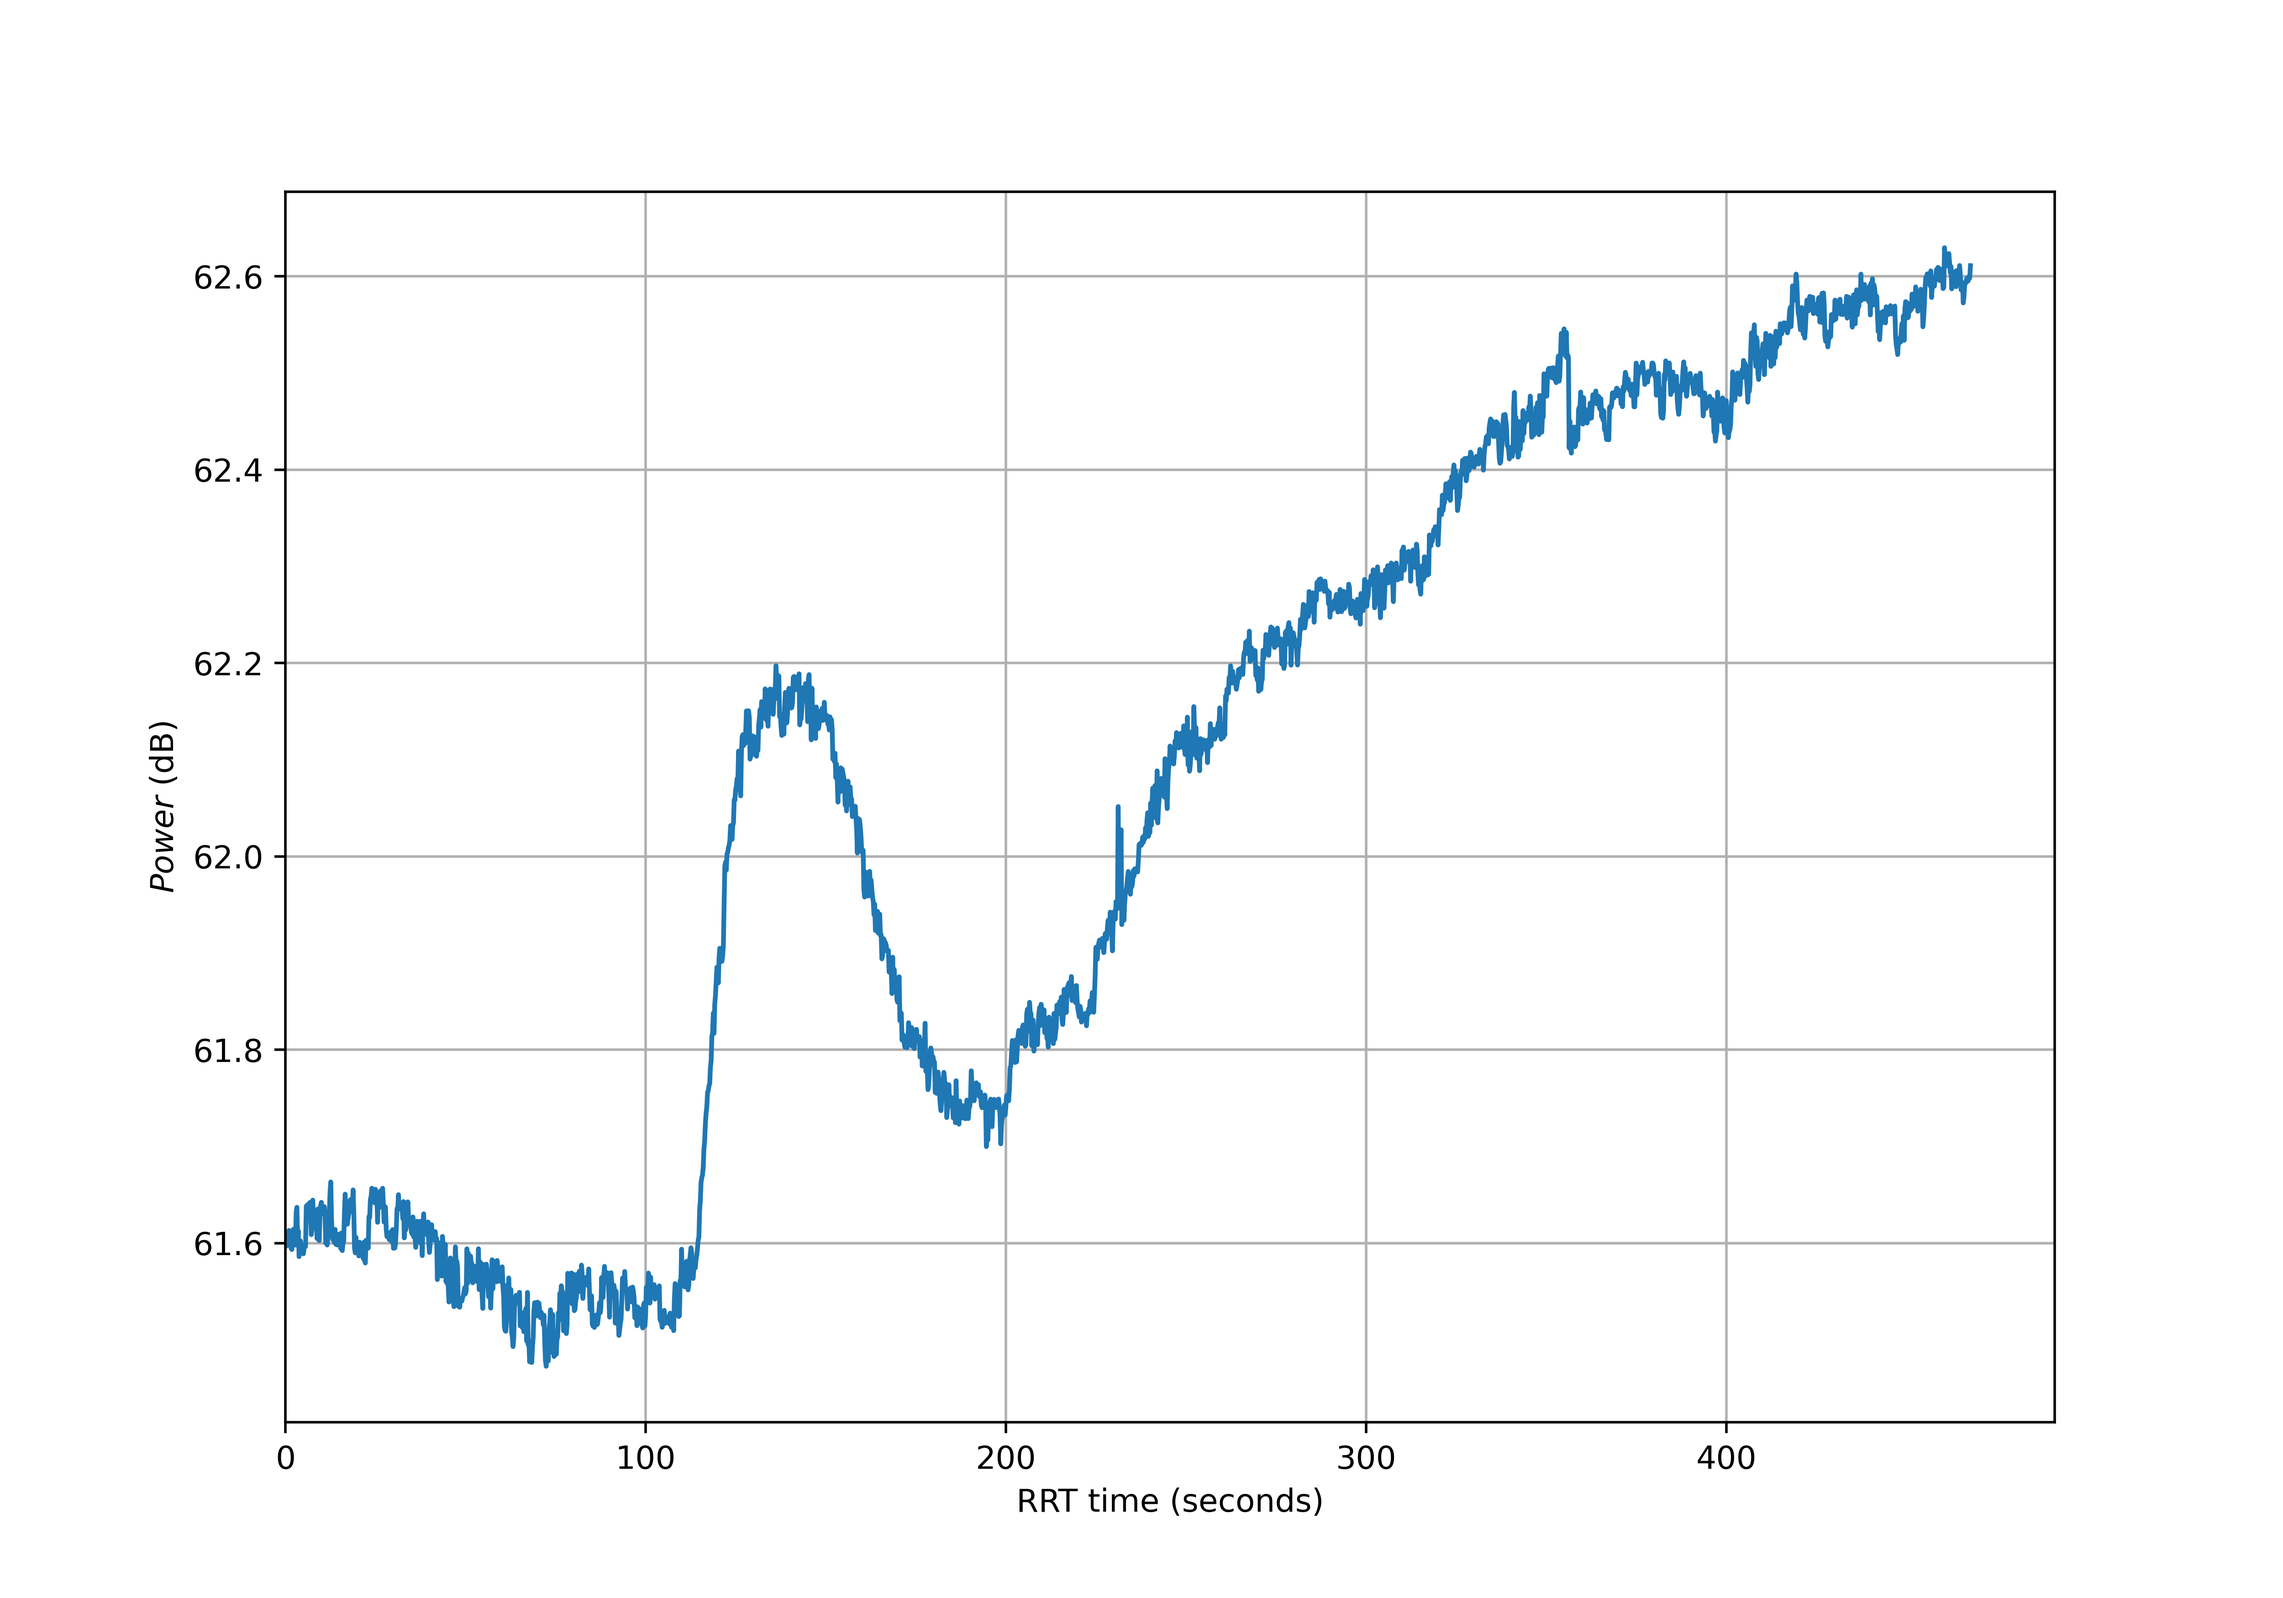
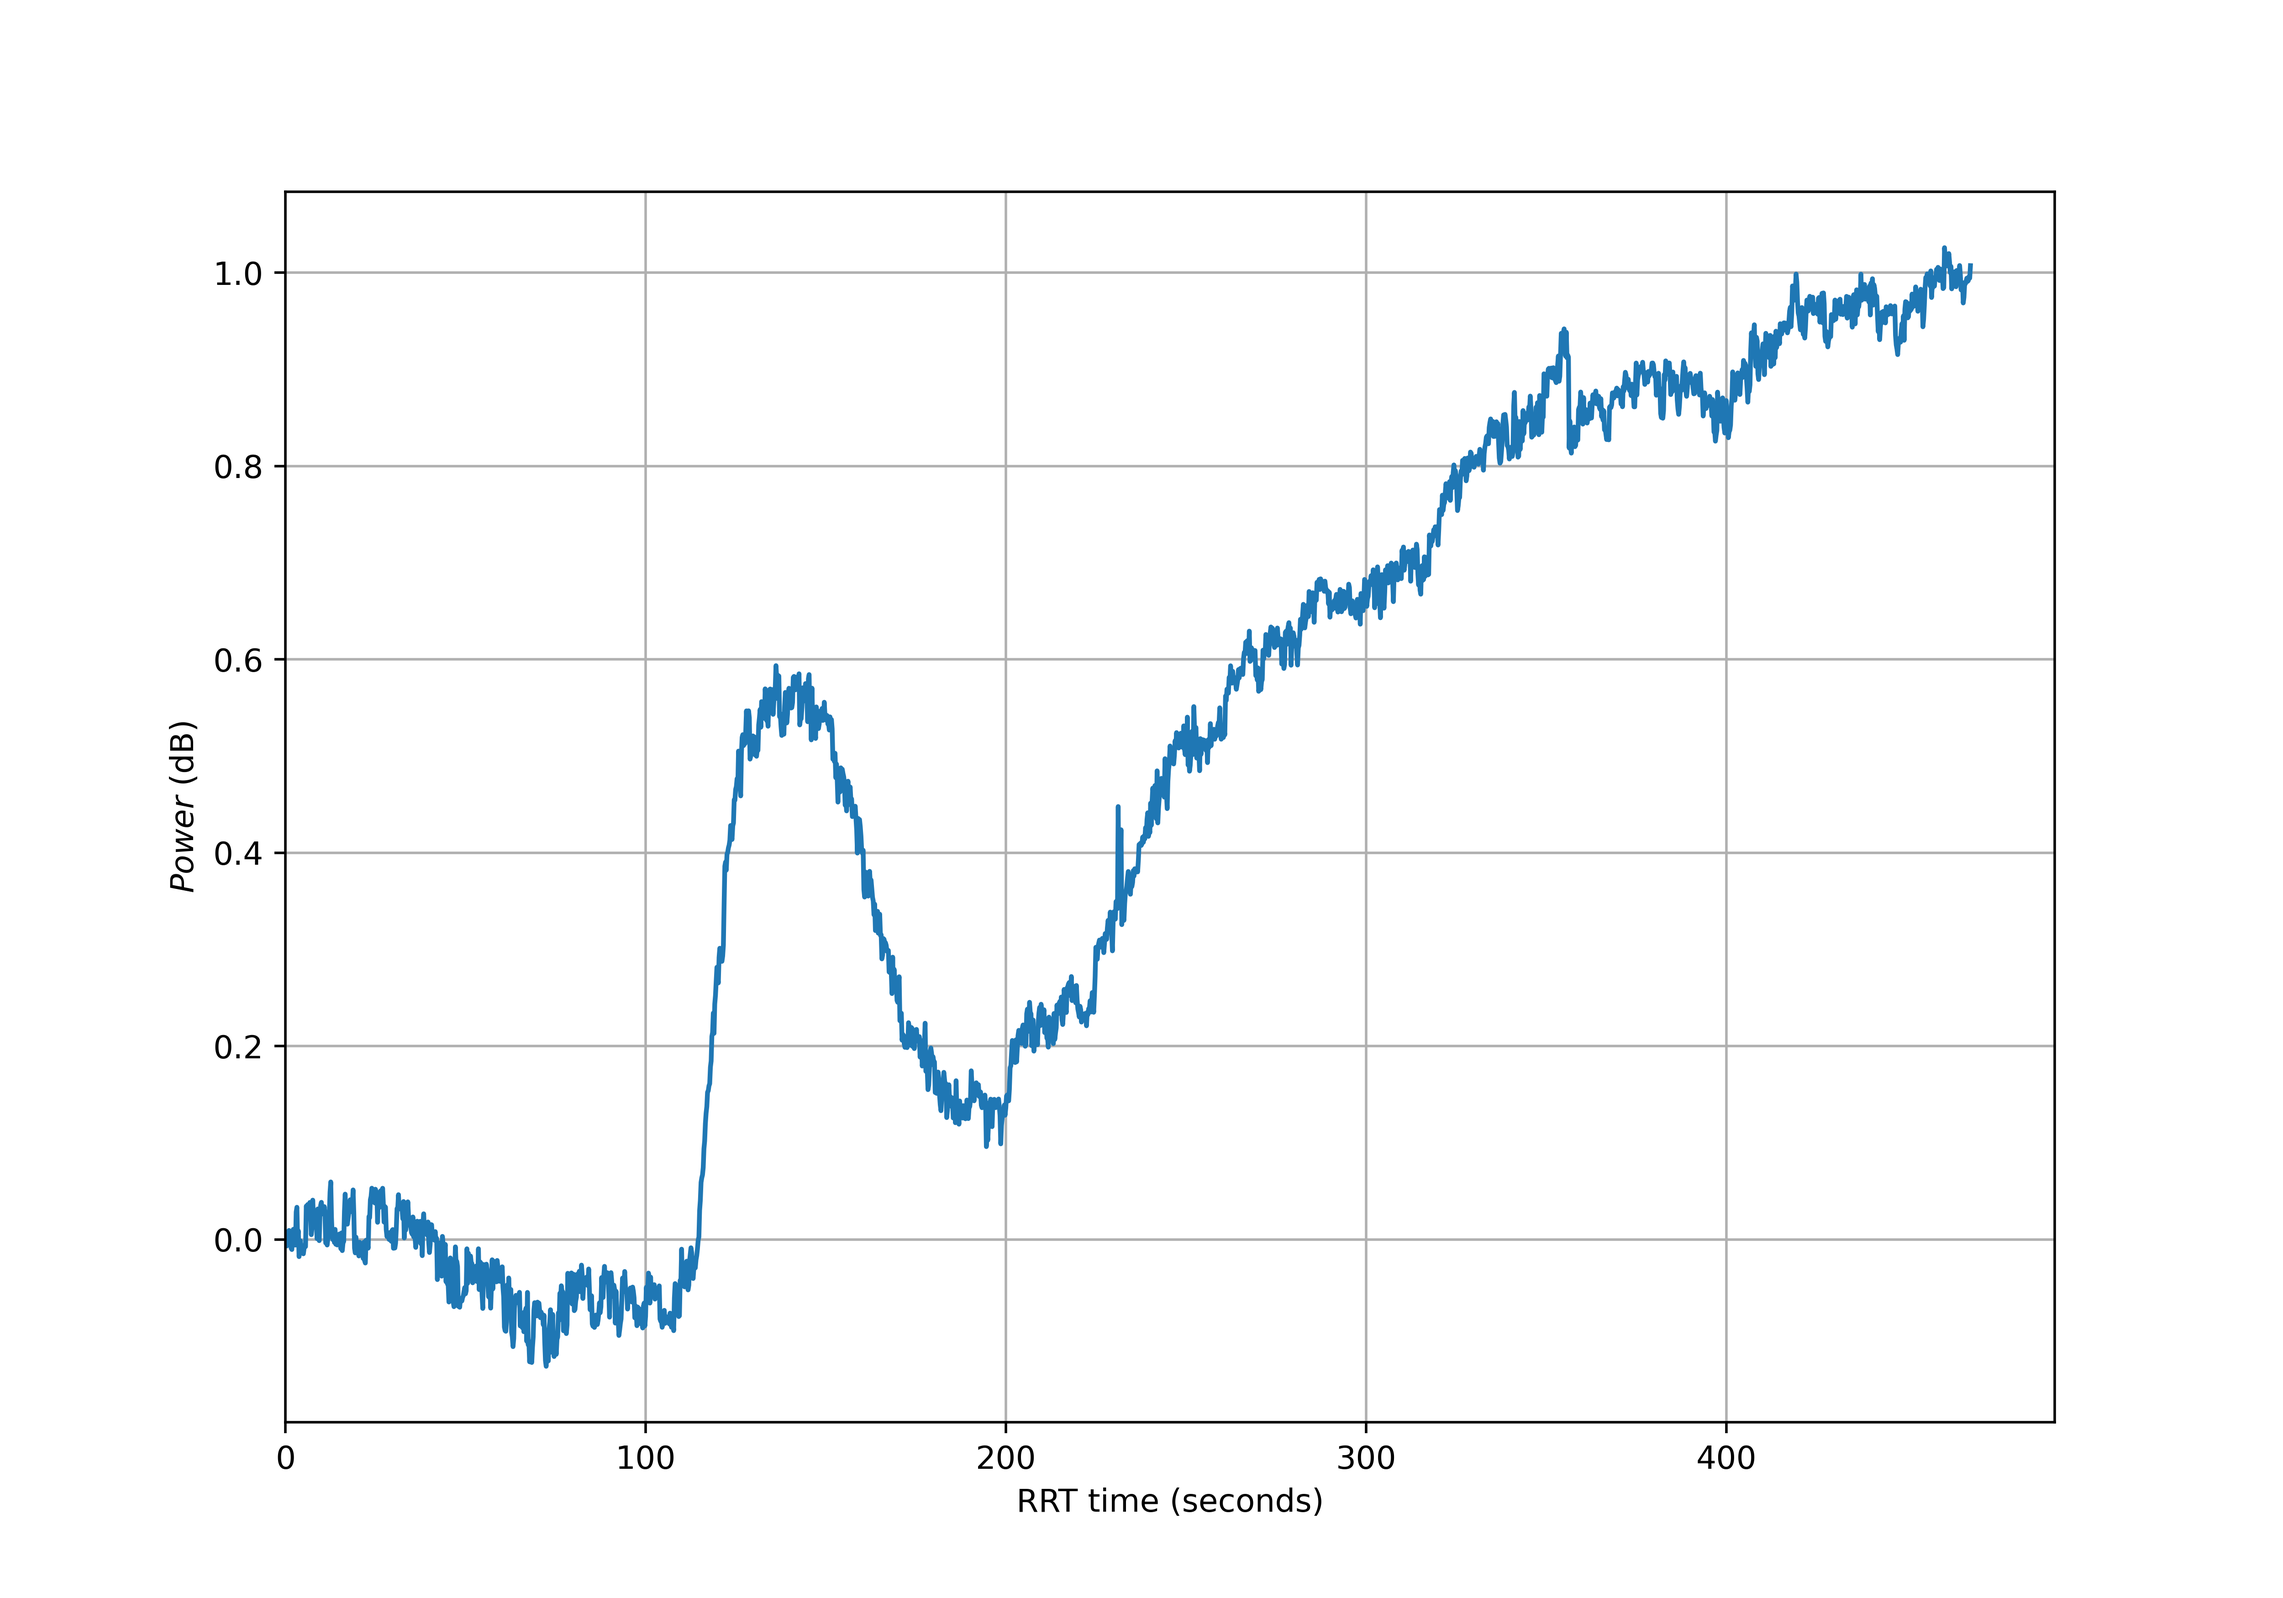
signal power monitoring done

diff --git a/scripts/power_detect.py b/scripts/power_detect.py
@@ -15,33 +15,47 @@ def clean_dat_PL(df_power):
     var = np.sum([(df_power['power'].iloc[i]-u)**2 for i in range(len(df_power['power']))])/(len(df_power['power']))
     return u,var
 
-def spoofed_mean(df_power):
-    u = np.average(df_power['power'][0:400])
-    return u
+def spoofed_PL(df_power, initial_t=0):
+    t = 0; count = 1;
+    moving_m = 0; moving_variance = 0;
 
-def simple_H_test(df_power_test, v_t):
+    while df_power['time'].iloc[t]<= 60 + initial_t:
+        moving_variance = ((count-1)/(count)) * (moving_variance+ ((moving_m-df_power['power'].iloc[t])**2/(count)))
+        moving_m += (1/count)*(df_power['power'].iloc[t] - moving_m)
+        t+=1
+        count+=1
+
+    return [moving_m, moving_variance]
+
+
+def simple_H_test(df_power_test, mean, variance, m):
 
     h_val = np.zeros(len(df_power_test['time']))
 
     for i in range(len(h_val)):
-        if np.abs(df_power_test['power'].iloc[i]) > v_t:
+        if np.abs(df_power_test['power'].iloc[i]) > mean + m*np.sqrt(variance) or np.abs(df_power_test['power'].iloc[i]) < mean - m*np.sqrt(variance):
             h_val[i] = 1
 
     return h_val
 
 
-def power_check_plots(clean_df, spoofed_df, mean, variance, plot_name):
+def power_check(clean_df, spoofed_df, parameters, plot_name, m=5, count=0):
 
-    spoofed_h_test = simple_H_test(spoofed_df, mean + 4*np.sqrt(variance))
+    #data gathered thus far
+    mean = parameters[0]
+    variance = parameters[1]
+
+    spoofed_h_test = simple_H_test(spoofed_df, mean, variance, m)
+
     first_one = spoofed_df['time'].iloc[np.argmax(spoofed_h_test)]
     print(f'First detection at {first_one}')
 
     fig = plt.figure(dpi = 500, figsize =[10 ,4.5])
-    plt.plot(clean_df['time'], clean_df['power']- clean_df['power'][0] , label = 'clean', color = 'grey')
-    plt.plot(spoofed_df['time'], spoofed_df['power'] - spoofed_df['power'][0] , label = 'spoofed', color = 'k')
+    plt.plot(clean_df['time'], clean_df['power']- clean_df['power'].iloc[0] , label = 'clean', color = 'grey')
+    plt.plot(spoofed_df['time'], spoofed_df['power'] - spoofed_df['power'].iloc[0] , label = 'spoofed', color = 'k')
 
-    plt.plot(clean_df['time'], np.zeros(len(clean_df['time']))*mean + 4*np.sqrt(variance), '--', color = 'tab:red', label = '$\pm 4\sigma$')
-    plt.plot(clean_df['time'], np.zeros(len(clean_df['time']))*mean - 4*np.sqrt(variance), '--', color = 'tab:red')
+    plt.plot(spoofed_df['time'], np.zeros(len(spoofed_df['time']))*mean + m*np.sqrt(variance), '--', color = 'tab:red', label = f'$\pm {m}\sigma$')
+    plt.plot(spoofed_df['time'], np.zeros(len(spoofed_df['time']))*mean - m*np.sqrt(variance), '--', color = 'tab:red')
 
     plt.xlim(0,500)
     # plt.ylim(-0.3,0.2)
@@ -54,8 +68,8 @@ def power_check_plots(clean_df, spoofed_df, mean, variance, plot_name):
     fig, axs = plt.subplots(2, 1)
 
     axs[0].plot(spoofed_df['time'], spoofed_df['power'] , label = 'ds7', color = 'k')
-    axs[0].plot(clean_df['time'], np.ones(len(clean_df['time']))*mean + 4*np.sqrt(variance), '--', color = 'tab:red', label = '$\pm 4\sigma$')
-    axs[0].plot(clean_df['time'], np.ones(len(clean_df['time']))*mean - 4*np.sqrt(variance), '--', color = 'tab:red')
+    axs[0].plot(spoofed_df['time'], np.ones(len(spoofed_df['time']))*mean + m*np.sqrt(variance), '--', color = 'tab:red', label = f'$\pm {m}\sigma$')
+    axs[0].plot(spoofed_df['time'], np.ones(len(spoofed_df['time']))*mean - m*np.sqrt(variance), '--', color = 'tab:red')
     axs[0].set_xlim(0,500)
     axs[0].grid()
     axs[0].set_ylabel('P (dB)')
@@ -73,15 +87,23 @@ def power_check_plots(clean_df, spoofed_df, mean, variance, plot_name):
     fig.savefig('figures/comparison/'+plot_name+'_h_test.png')
 
 
-clean_mean, clean_variance = clean_dat_PL(clean_power2MHz_df)
+# clean_mean, clean_variance = clean_dat_PL(clean_power2MHz_df)
 from statistics import NormalDist
-prob = 2*(NormalDist(mu =clean_mean, sigma = np.sqrt(clean_variance)).cdf(clean_mean+4*(np.sqrt(clean_variance))) - 0.5)
+prob = 2*(NormalDist(mu =0, sigma = np.sqrt(1)).cdf(0+5*(np.sqrt(1))) - 0.5)
+
 print(f'Interval of confidence  = {prob}')
 print(f'Probability of false detection  = {1-prob}') #not the same as false positive rate
 
 
-power_check_plots(clean_power2MHz_df, ds7_power2MHz_df, clean_mean, clean_variance, 'clean_vs_ds7')
-power_check_plots(clean_power2MHz_df, ds2_power2MHz_df, spoofed_mean(ds2_power2MHz_df), clean_variance, 'clean_vs_ds2')
-power_check_plots(clean_power2MHz_df, ds3_power2MHz_df, spoofed_mean(ds3_power2MHz_df), clean_variance, 'clean_vs_ds3')
+print(spoofed_PL(ds2_power2MHz_df))
+print(spoofed_PL(ds3_power2MHz_df))
+print(spoofed_PL(ds7_power2MHz_df))
+
+power_check(clean_power2MHz_df, ds7_power2MHz_df, spoofed_PL(ds7_power2MHz_df), 'clean_vs_ds7')
+power_check(clean_power2MHz_df, ds2_power2MHz_df, spoofed_PL(ds2_power2MHz_df), 'clean_vs_ds2')
+power_check(clean_power2MHz_df, ds3_power2MHz_df, spoofed_PL(ds3_power2MHz_df), 'clean_vs_ds3')
 
 # power_check_plots(clean_power2MHz_df, ds7_power2MHz_df, clean_mean, clean_variance, 'clean_vs_ds7')
+
+# get the mean and the variance from the first minute of each data set
+#learn the average and variance assuming unspoofed

diff --git a/scripts/parsing.py b/scripts/parsing.py
@@ -230,6 +230,15 @@ def iq_parse(inputfilename):
     df = pd.DataFrame(data.T, columns = colmn_names)
     df = df.astype(typ)
 
+    # if data == 'ds2':
+    #     df = df[df['RRTseconds']>=2.99691752].reset_index(drop=True)
+    #     df['RRTseconds'] = df['RRTseconds']+df['RRTseconds'][0]
+    # if data == 'ds3':
+    #     df = df[df['time']>=2.20332084].reset_index(drop=True)
+    #     df['time'] = df['time']+df['time'][0]
+
+    data_set = inputfilename.split('/')[1]
+
     return df
 
 def iq_taps_parse(inputfilename):
@@ -264,6 +273,24 @@ def iq_taps_parse(inputfilename):
     # typ = dict(zip(colmn_names, type_specs))
 
     df = pd.DataFrame(data.T, columns = colmn_names)
+    data_set = inputfilename.split('/')[1]
+
+    fig = plt.figure()#dpi = 500, figsize =[10 ,7])
+    ax = fig.add_subplot(projection='3d')
+    for prn in df['TXID'].unique():
+        if prn==23:
+            ax.scatter(df[df['TXID'] == prn]['RRTseconds'],np.ones(len(df[df['TXID'] == prn]['RRTseconds']))*0,df[df['TXID'] == prn]['phase_tap_0'], label = f'PRN:{prn}')
+            ax.scatter(df[df['TXID'] == prn]['RRTseconds'],np.ones(len(df[df['TXID'] == prn]['RRTseconds']))*1,df[df['TXID'] == prn]['phase_tap_1'], label = f'PRN:{prn}')
+            ax.scatter(df[df['TXID'] == prn]['RRTseconds'],np.ones(len(df[df['TXID'] == prn]['RRTseconds']))*2,df[df['TXID'] == prn]['phase_tap_2'], label = f'PRN:{prn}')
+    plt.legend()
+    plt.grid()
+    plt.xlim(0)
+    plt.xlabel('RRT time (seconds)')
+    plt.ylabel('$C/N_0$ (dB-Hz)')
+    plt.show()
+    # fig.savefig('figures/'+data_set+'/taps.png')
+
+    print(df)
 
     # df = df.astype(typ)
 
@@ -329,17 +356,17 @@ def main():
         # elif f.split('/')[-1] == 'iq.mat':
         #     iq_df = iq_parse(f)
 
-        # elif f.split('/')[-1] == 'iqtaps.mat':
-        #     iq_taps_df = iq_taps_parse(f)
+        elif f.split('/')[-1] == 'iqtaps.mat':
+            iq_taps_df = iq_taps_parse(f)
 
-        elif f.split('/')[-1][-len('power2MHz.mat'):] == 'power2MHz.mat':
-            power2MHz_df = power_parse(f)
+        # elif f.split('/')[-1][-len('power2MHz.mat'):] == 'power2MHz.mat':
+        #     power2MHz_df = power_parse(f)
 
-        elif f.split('/')[-1][-len('power4MHz.mat'):] == 'power4MHz.mat':
-            power4MHz_df = power_parse(f)
+        # elif f.split('/')[-1][-len('power4MHz.mat'):] == 'power4MHz.mat':
+        #     power4MHz_df = power_parse(f)
 
-        elif f.split('/')[-1][-len('power8MHz.mat'):] == 'power8MHz.mat':
-            power8MHz_df = power_parse(f)
+        # elif f.split('/')[-1][-len('power8MHz.mat'):] == 'power8MHz.mat':
+        #     power8MHz_df = power_parse(f)
 
         else:
             print(f'Cannot parse {f}')
